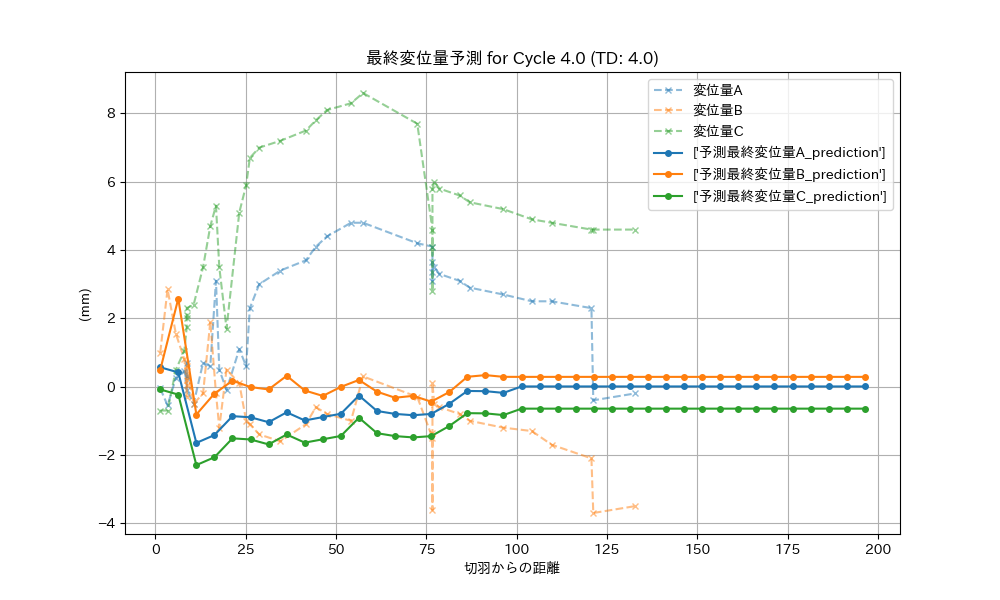
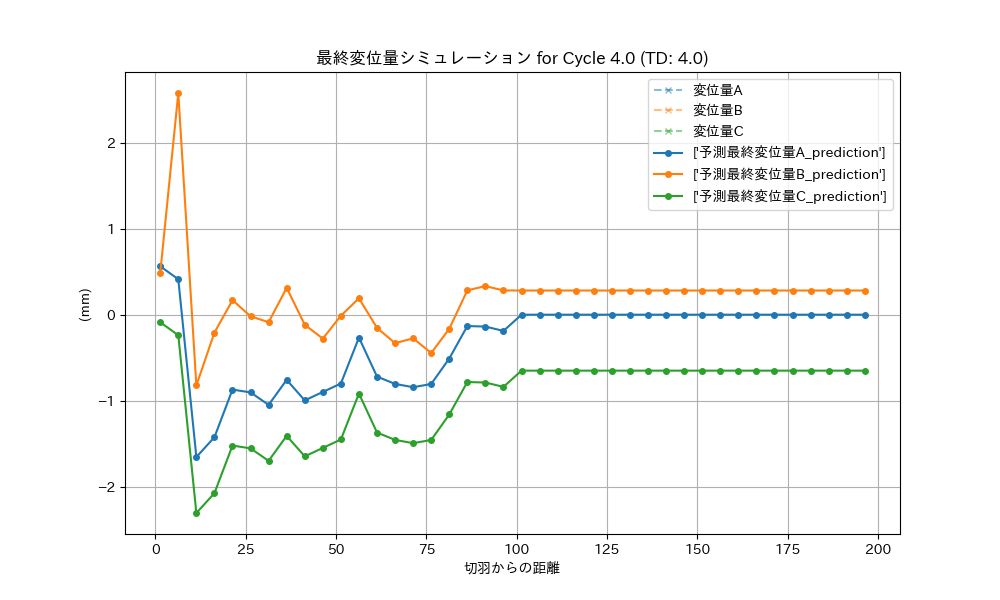
[FEAT] テーブル直した

diff --git a/frontend/features/simulation/hooks/useSimulation.ts b/frontend/features/simulation/hooks/useSimulation.ts
@@ -150,9 +150,48 @@ export function useSimulation() {
       const simulationData = processSimulationData(result);
       const predictionData = processPredictionData(result);
       
+      // Create combined data for simulation charts: actual measurements from prediction + simulation predictions
+      // Use all data points from both prediction and simulation data
+      const allDistances = new Set([
+        ...predictionData.map(p => p.distanceFromFace),
+        ...simulationData.map(s => s.distanceFromFace)
+      ]);
+      
+      const combinedSimulationData = Array.from(allDistances)
+        .sort((a, b) => a - b)
+        .map(distance => {
+          const predPoint = predictionData.find(p => p.distanceFromFace === distance);
+          const simPoint = simulationData.find(s => s.distanceFromFace === distance);
+          
+          const combined: any = {
+            distanceFromFace: distance,
+          };
+          
+          // Add actual measurements from prediction data if available
+          if (predPoint) {
+            Object.keys(predPoint).forEach(key => {
+              if (key !== 'distanceFromFace' && !key.includes('予測') && !key.includes('prediction')) {
+                combined[key] = predPoint[key];
+              }
+            });
+          }
+          
+          // Add prediction values - prefer simulation data, fallback to prediction data
+          const sourcePoint = simPoint || predPoint;
+          if (sourcePoint) {
+            Object.keys(sourcePoint).forEach(key => {
+              if (key !== 'distanceFromFace' && (key.includes('予測') || key.includes('prediction'))) {
+                combined[key] = sourcePoint[key];
+              }
+            });
+          }
+          
+          return combined;
+        });
+      
       setChartData(simulationData);
       setPredictionChartData(predictionData);
-      setSimulationChartData(simulationData);
+      setSimulationChartData(combinedSimulationData);
       
     } catch (err) {
       console.error('Analysis failed:', err);

diff --git a/frontend/features/simulation/components/SimulationDashboard.tsx b/frontend/features/simulation/components/SimulationDashboard.tsx
@@ -202,12 +202,12 @@ export function SimulationDashboard() {
           <div className="grid grid-cols-1 md:grid-cols-2 gap-6">
             <ChartsSection
               title={`最終変位量シミュレーション（実測+予測） (${excavationAdvance} m/day)`}
-              chartData={predictionChartData}
+              chartData={simulationChartData}
               chartLines={displacementChartLines}
             />
             <ChartsSection
               title={`最終沈下量シミュレーション（実測+予測） (${excavationAdvance} m/day)`}
-              chartData={predictionChartData}
+              chartData={simulationChartData}
               chartLines={settlementChartLines}
             />
           </div>

diff --git a/microservices/ai_ameasure/app/api/endpoints/simulation.py b/microservices/ai_ameasure/app/api/endpoints/simulation.py
@@ -268,28 +268,39 @@ async def analyze_local_displacement_gui_style(
             output_folder, f"convergence_simulation_{cycle_no}.png"
         )
 
+        # For simulation charts, use actual measurement data up to distance_from_face
+        # and simulated prediction data for the rest
+        df_measured = df_all_prediction[df_all_prediction[DISTANCE_FROM_FACE] <= distance_from_face]
+        df_simulated_full = df_all_simulated  # This contains all data including simulated extension
+
         draw_local_prediction_chart(
             settlement_simulation_path,
-            df_all_prediction[DISTANCE_FROM_FACE],
-            df_all_prediction[settlements],
-            df_all_simulated[DISTANCE_FROM_FACE],
-            df_all_simulated[[l + "_prediction" for l in settlements]],
-            f"最終沈下量予測 for Cycle {cycle_no} (TD: {td})",
+            df_measured[DISTANCE_FROM_FACE],
+            df_measured[settlements],
+            df_simulated_full[DISTANCE_FROM_FACE],
+            df_simulated_full[[l + "_prediction" for l in settlements]],
+            f"最終沈下量シミュレーション for Cycle {cycle_no} (TD: {td})",
         )
 
         draw_local_prediction_chart(
             convergence_simulation_path,
-            df_all_prediction[DISTANCE_FROM_FACE],
-            df_all_prediction[convergences],
-            df_all_simulated[DISTANCE_FROM_FACE],
-            df_all_simulated[[l + "_prediction" for l in convergences]],
-            f"最終変位量予測 for Cycle {cycle_no} (TD: {td})",
+            df_measured[DISTANCE_FROM_FACE],
+            df_measured[convergences],
+            df_simulated_full[DISTANCE_FROM_FACE],
+            df_simulated_full[[l + "_prediction" for l in convergences]],
+            f"最終変位量シミュレーション for Cycle {cycle_no} (TD: {td})",
         )
 
-        # Prepare response data
-        simulation_data_df = df_all_simulated[
-            [DISTANCE_FROM_FACE] + [l + "_prediction" for l in convergences + settlements]
-        ]
+        # Prepare response data - only prediction columns for table
+        prediction_cols = [DISTANCE_FROM_FACE]
+        
+        # Add only prediction columns
+        for col in settlements + convergences:
+            pred_col = col + "_prediction"
+            if pred_col in df_all_simulated.columns:
+                prediction_cols.append(pred_col)
+        
+        simulation_data_df = df_all_simulated[prediction_cols]
         simulation_data_records = simulation_data_df.to_dict(orient="records")
         
         # Prepare prediction data (actual measurements + predictions for charts)
